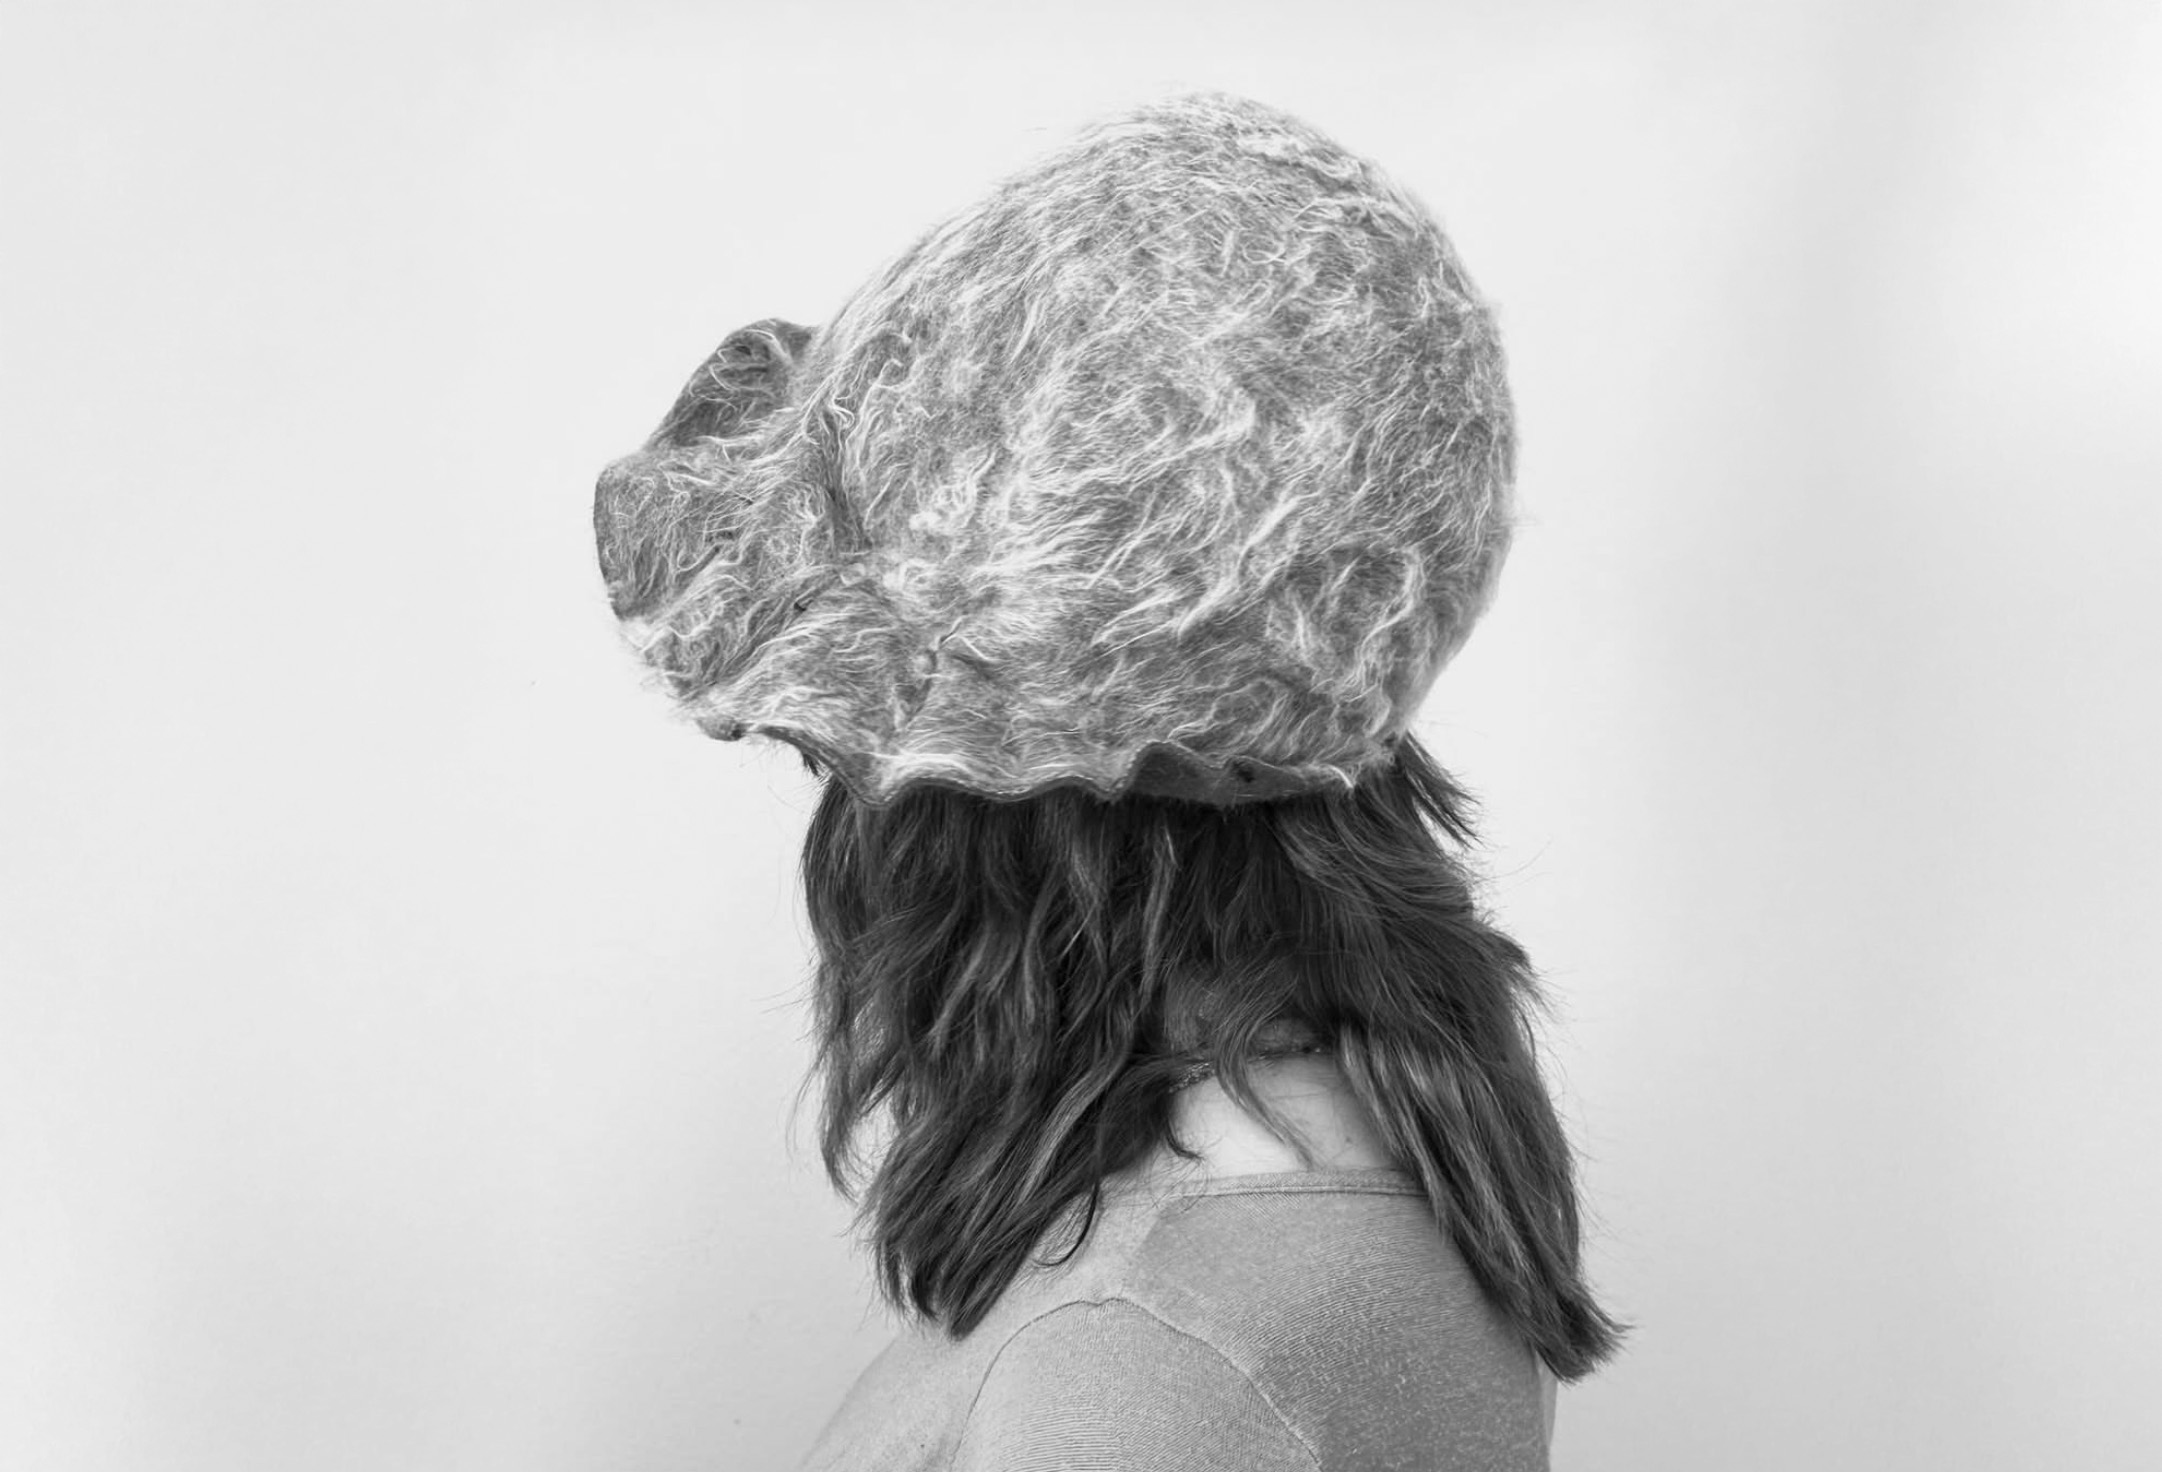
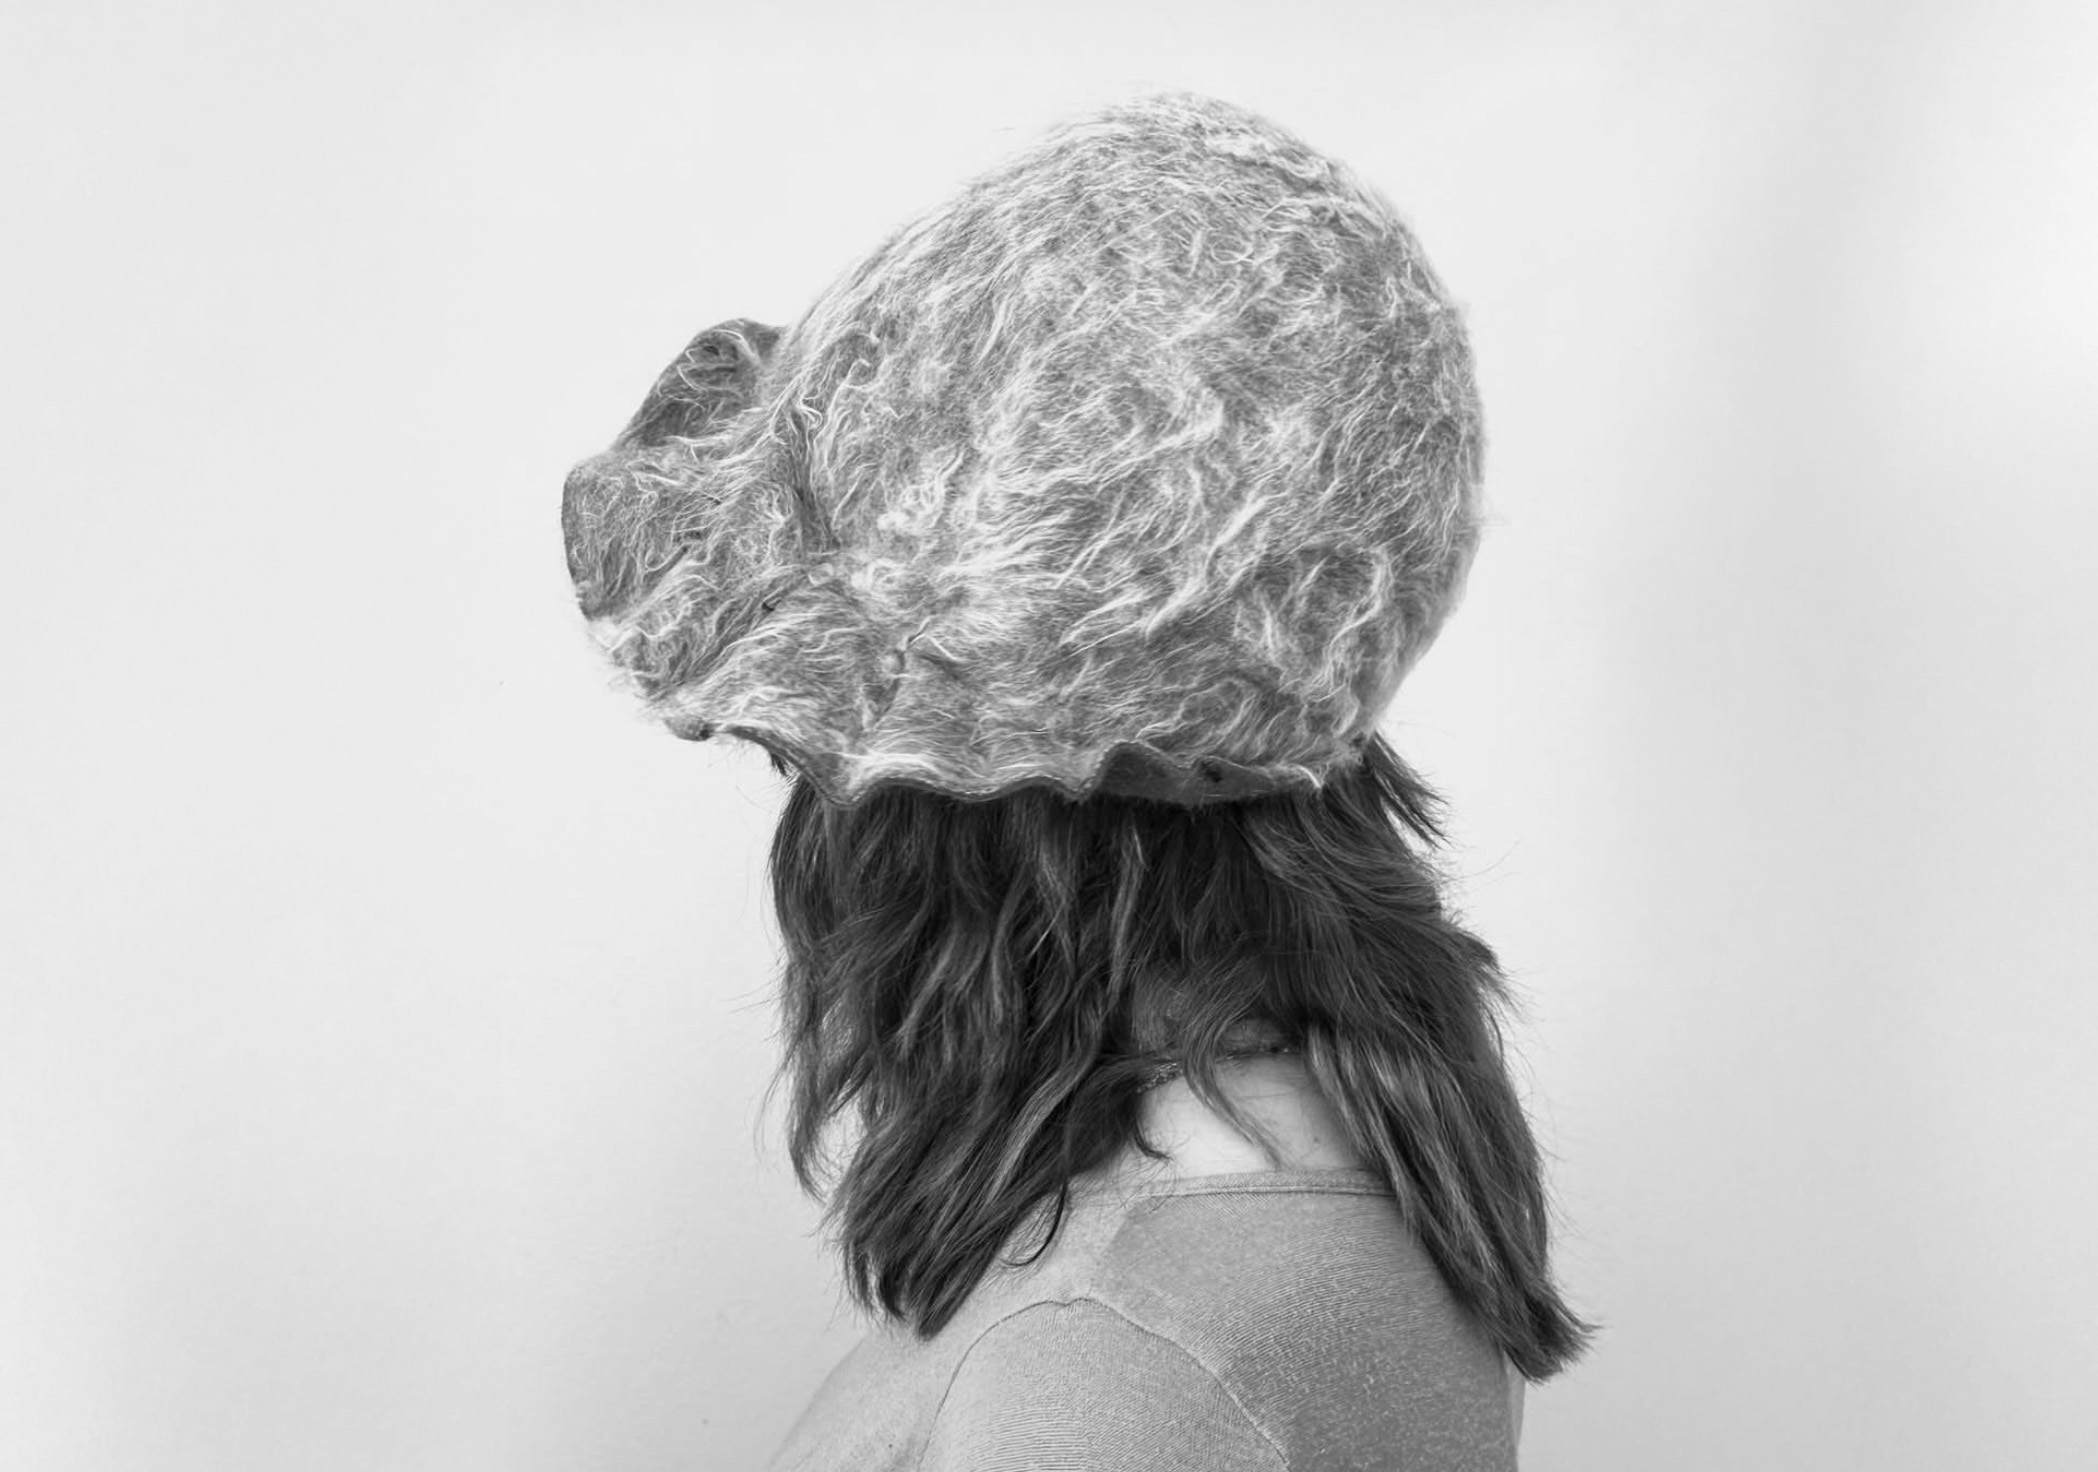
aggiunta immagini

Changed region(s): [[0.5267, 0.0625, 0.7745, 1.0], [0.2479, 0.1562, 0.4957, 0.9062], [0.5267, 0.5625, 0.5577, 0.625]]

diff --git a/index.html b/index.html
@@ -222,7 +222,7 @@
             <!-- colonna 3 -->
             <div class="col-lg-3 col-md-6">
                 <div class="image-tre">
-                    <img src="img/" alt="Immagine 3" class="img-fluid mb-3">
+                    <img src="img/barbieparalume copia.jpg" alt="Immagine 3" class="img-fluid mb-3">
                     <h3 class="about-titolo">Immagine 3</h3>
                     <p class="about-text">
                         Descrizione per la terza immagine della quinta riga.
@@ -279,7 +279,7 @@
         <!-- colonna 4 -->
         <div class="col-lg-3 col-md-6">
             <div class="image-tre">
-                <img src="img/" alt="Immagine 8" class="img-fluid mb-3">
+                <img src="img/manifestoespansione.jpg" alt="Immagine 8" class="img-fluid mb-3">
                 <h3 class="about-titolo">Immagine 8</h3>
                 <p class="about-text">
                     Descrizione per la quarta immagine della sesta riga.
